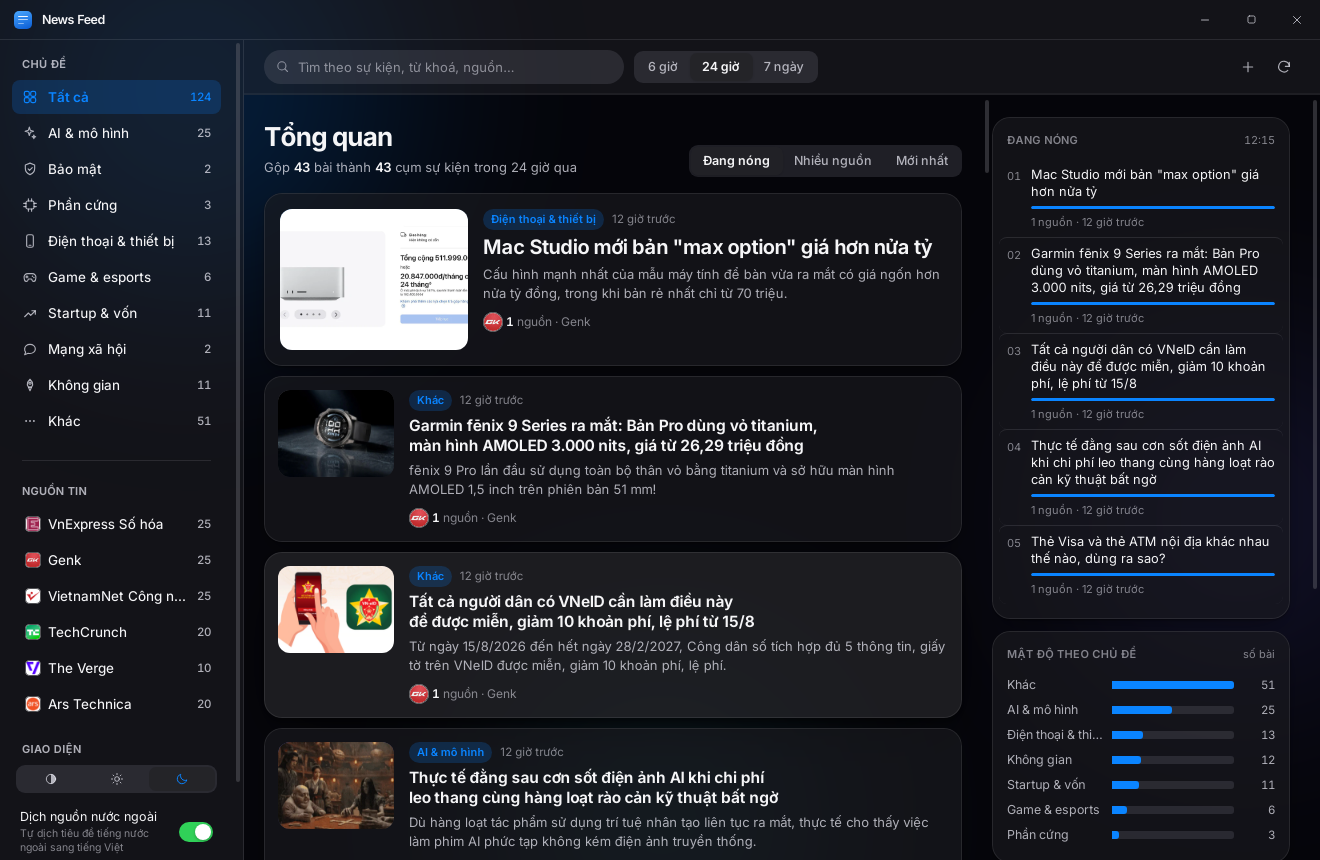
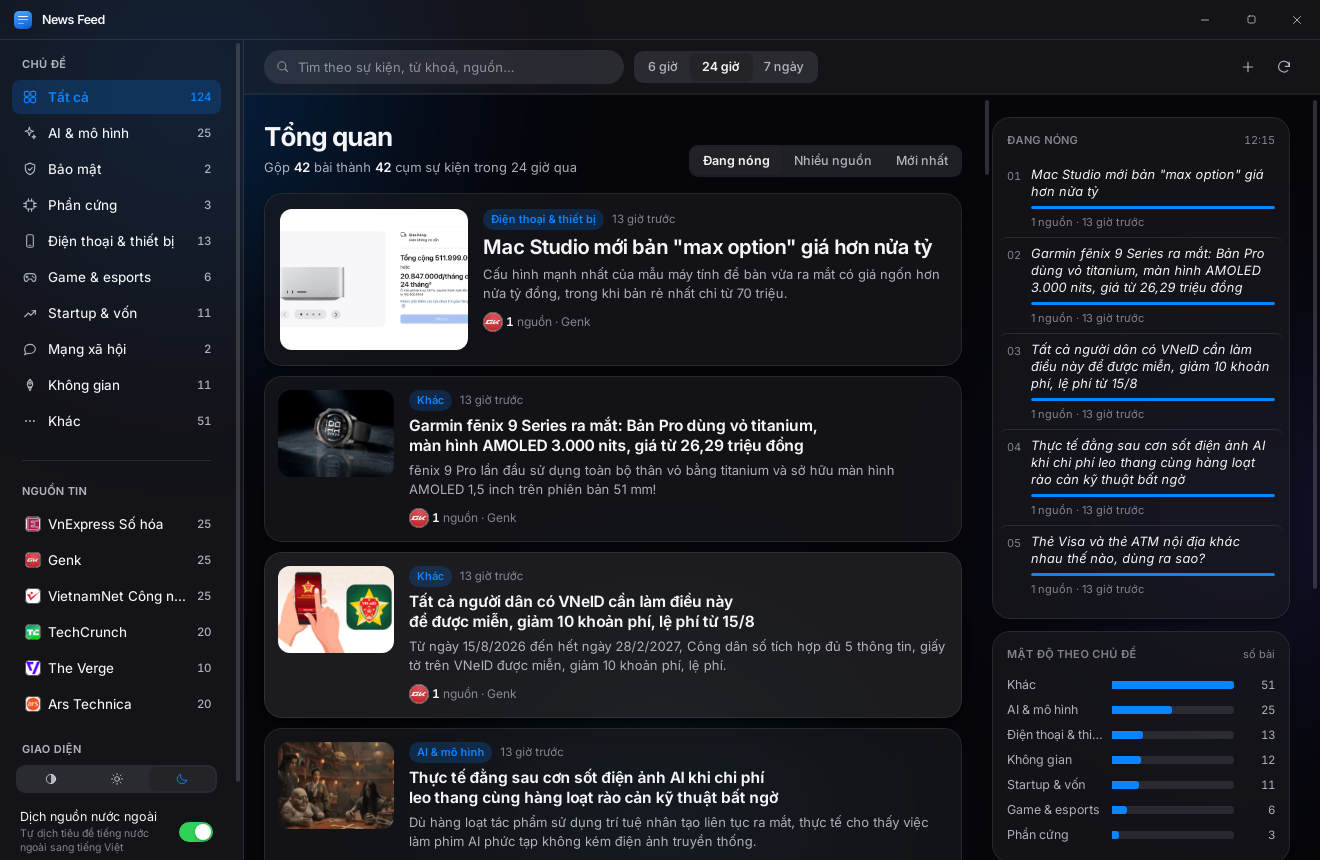
Chữ nghiêng cho panel Đang nóng và cuộn mượt có độ nảy (v0.4.0)
Panel Đang nóng dùng chữ nghiêng cho tiêu đề để khác hẳn phần còn lại. Nạp
kèm bộ nghiêng thật của Inter (có sẵn dấu tiếng Việt); không nạp thì trình
duyệt tự bóp nghiêng chữ đứng và dấu bị méo. Dòng đếm nguồn giữ chữ đứng
để trong panel vẫn có tương phản.

Cuộn mượt có độ nảy cho dòng tin và màn hình đọc. WebView trên Windows
không có hiệu ứng nảy như macOS nên phải tự dựng: chặn sự kiện lăn chuột,
nội suy dần vị trí cuộn qua từng khung hình, và khi lăn quá mép thì đẩy lớp
nội dung ra với lực cản tăng dần rồi cho bật về.

Một lỗi phải sửa trong lúc làm: bản đầu dùng một cờ bật tắt quanh lệnh gán
scrollTop để nhận ra cuộn nào do vòng lặp gây ra. Cách đó không chạy vì
trình duyệt bắn sự kiện scroll bất đồng bộ, cờ đã tắt trước khi trình xử lý
chạy, nên vòng lặp tự huỷ chuyển động của chính mình sau đúng một khung
hình — đo được là cuộn dừng ở 74px thay vì đi tiếp. Thay bằng cách so vị
trí thật với vị trí vòng lặp vừa đặt.

Thanh cuộn kéo tay và phím điều hướng vẫn theo cơ chế gốc; hiệu ứng tự tắt
khi hệ điều hành bật chế độ giảm chuyển động.

diff --git a/src/lib/elasticScroll.ts b/src/lib/elasticScroll.ts
@@ -1,0 +1,102 @@
+import { useEffect, type RefObject } from "react";
+
+/** Độ bám của chuyển động cuộn: càng nhỏ càng trôi lâu. */
+const EASE = 0.16;
+/** Kéo quá mép tối đa bao nhiêu pixel. */
+const OVERSCROLL_MAX = 92;
+/** Mỗi khung hình, độ kéo quá co lại bấy nhiêu lần. */
+const OVERSCROLL_DECAY = 0.85;
+
+/**
+ * Cuộn mượt có độ nảy ở hai mép.
+ *
+ * WebView trên Windows không có hiệu ứng nảy như macOS, nên phải tự làm:
+ * chặn sự kiện lăn chuột, nội suy dần vị trí cuộn qua từng khung hình, và
+ * khi người dùng lăn quá mép thì đẩy lớp nội dung ra rồi cho bật về.
+ *
+ * Thanh cuộn kéo tay và phím điều hướng vẫn chạy theo cơ chế gốc của trình
+ * duyệt; hàm này chỉ đồng bộ lại vị trí khi điều đó xảy ra.
+ */
+export function useElasticScroll(
+  outerRef: RefObject<HTMLElement | null>,
+  innerRef: RefObject<HTMLElement | null>,
+) {
+  useEffect(() => {
+    const outer = outerRef.current;
+    const inner = innerRef.current;
+    if (!outer || !inner) return;
+    if (window.matchMedia("(prefers-reduced-motion: reduce)").matches) return;
+
+    let target = outer.scrollTop;
+    let current = target;
+    let over = 0;
+    let frame = 0;
+
+    const maxScroll = () => Math.max(0, outer.scrollHeight - outer.clientHeight);
+
+    const tick = () => {
+      frame = 0;
+      // Nội dung có thể ngắn đi sau khi đổi bộ lọc.
+      target = Math.min(target, maxScroll());
+
+      const distance = target - current;
+      current = Math.abs(distance) < 0.4 ? target : current + distance * EASE;
+
+      outer.scrollTop = current;
+
+      over *= OVERSCROLL_DECAY;
+      if (Math.abs(over) < 0.3) over = 0;
+      inner.style.transform = over === 0 ? "" : `translate3d(0, ${over.toFixed(2)}px, 0)`;
+
+      if (current !== target || over !== 0) frame = requestAnimationFrame(tick);
+    };
+
+    const wake = () => {
+      if (!frame) frame = requestAnimationFrame(tick);
+    };
+
+    const onWheel = (event: WheelEvent) => {
+      // Ctrl + lăn là thao tác phóng to, không phải cuộn.
+      if (event.ctrlKey) return;
+      const max = maxScroll();
+      if (max <= 0) return;
+      event.preventDefault();
+
+      const next = target + event.deltaY;
+      // Càng kéo ra xa mép thì càng nặng tay, giống cách iOS ghì lại.
+      const resistance = 0.32 / (1 + Math.abs(over) / 70);
+
+      if (next < 0) {
+        over = Math.min(OVERSCROLL_MAX, over - next * resistance);
+        target = 0;
+      } else if (next > max) {
+        over = Math.max(-OVERSCROLL_MAX, over - (next - max) * resistance);
+        target = max;
+      } else {
+        target = next;
+      }
+      wake();
+    };
+
+    const onScroll = () => {
+      // Trình duyệt bắn sự kiện scroll bất đồng bộ, nên không thể dùng một cờ
+      // bật tắt quanh lệnh gán để nhận ra cuộn nào là của mình. Thay vào đó
+      // so vị trí thật với vị trí vòng lặp vừa đặt: lệch nhiều nghĩa là người
+      // dùng kéo thanh cuộn hoặc bấm phím, lúc đó mới đồng bộ lại.
+      const drifted = Math.abs(outer.scrollTop - current) > 2;
+      if (frame !== 0 && !drifted) return;
+      current = outer.scrollTop;
+      target = current;
+    };
+
+    outer.addEventListener("wheel", onWheel, { passive: false });
+    outer.addEventListener("scroll", onScroll, { passive: true });
+
+    return () => {
+      outer.removeEventListener("wheel", onWheel);
+      outer.removeEventListener("scroll", onScroll);
+      if (frame) cancelAnimationFrame(frame);
+      inner.style.transform = "";
+    };
+  }, [outerRef, innerRef]);
+}

diff --git a/src/App.tsx b/src/App.tsx
@@ -1,7 +1,8 @@
-import { useCallback, useEffect, useMemo, useState } from "react";
+import { useCallback, useEffect, useMemo, useRef, useState } from "react";
 import type { Cluster, Snapshot } from "./lib/types";
 import { api, isDesktop } from "./lib/api";
 import { useTheme } from "./lib/theme";
+import { useElasticScroll } from "./lib/elasticScroll";
 import { formatNumber, hoursSince } from "./lib/format";
 import { Segmented } from "./components/Segmented";
 import { Sidebar } from "./components/Sidebar";
@@ -29,6 +30,10 @@ const SORTS = [
 
 export default function App() {
   const { choice: theme, setChoice: setTheme } = useTheme();
+
+  const feedRef = useRef<HTMLElement>(null);
+  const feedInnerRef = useRef<HTMLDivElement>(null);
+  useElasticScroll(feedRef, feedInnerRef);
 
   const [snapshot, setSnapshot] = useState<Snapshot | null>(null);
   const [topic, setTopic] = useState("all");
@@ -263,7 +268,8 @@ export default function App() {
             </div>
 
             <div className="columns">
-              <main className="feed">
+              <main className="feed" ref={feedRef}>
+                <div className="feed-inner" ref={feedInnerRef}>
                 <div className="feed-head">
                   <div>
                     <h1>{sourceId ? (sourceMap.get(sourceId)?.title ?? "Tổng quan") : "Tổng quan"}</h1>
@@ -304,6 +310,7 @@ export default function App() {
                       />
                     ))
                   )}
+                </div>
                 </div>
               </main>
 

diff --git a/src/components/ReaderSheet.tsx b/src/components/ReaderSheet.tsx
@@ -1,7 +1,8 @@
-import { useEffect, useState } from "react";
+import { useEffect, useRef, useState } from "react";
 import type { CleanedArticle, Cluster } from "../lib/types";
 import { TOPIC_LABEL } from "../lib/types";
 import { api } from "../lib/api";
+import { useElasticScroll } from "../lib/elasticScroll";
 import { hostOf, relativeTime } from "../lib/format";
 import { SourceLogo } from "./SourceLogo";
 import { CloseIcon, ExternalIcon } from "./Icons";
@@ -22,6 +23,10 @@ export function ReaderSheet({ cluster, onClose }: Props) {
   const [translating, setTranslating] = useState(false);
   const [translateError, setTranslateError] = useState<string | null>(null);
   const [showOriginal, setShowOriginal] = useState(false);
+
+  const scrollRef = useRef<HTMLDivElement>(null);
+  const gridRef = useRef<HTMLDivElement>(null);
+  useElasticScroll(scrollRef, gridRef);
 
   const article = cluster.articles[selected] ?? cluster.articles[0];
 
@@ -119,8 +124,8 @@ export function ReaderSheet({ cluster, onClose }: Props) {
           </span>
         </div>
 
-        <div className="sheet-body">
-          <div className="reader-grid">
+        <div className="sheet-body" ref={scrollRef}>
+          <div className="reader-grid" ref={gridRef}>
             <article>
               <h1 className="reader-title">{displayTitle}</h1>
               <div className="reader-byline">

diff --git a/src/styles/app.css b/src/styles/app.css
@@ -465,7 +465,16 @@
 .hot-row:active { background: var(--fill-strong); }
 .hot-row:hover p { color: var(--blue); }
 .hot-row .rank { font-size: 11px; color: var(--label-3); padding-top: 2px; font-variant-numeric: tabular-nums; }
-.hot-row p { margin: 0 0 6px; font-size: 12.8px; line-height: 1.36; transition: color var(--dur-fast) ease; }
+/* Chữ nghiêng để panel này khác hẳn phần còn lại. Chỉ nghiêng tiêu đề, còn
+   dòng đếm nguồn giữ chữ đứng cho dễ đọc. */
+.hot-row p {
+  margin: 0 0 6px;
+  font-size: 12.8px;
+  line-height: 1.38;
+  font-style: italic;
+  letter-spacing: 0.002em;
+  transition: color var(--dur-fast) ease;
+}
 .hot-row .sub { font-size: 11px; color: var(--label-3); margin-top: 5px; display: block; }
 .meter { display: block; height: 3px; border-radius: 2px; background: var(--fill); overflow: hidden; }
 .meter i { display: block; height: 100%; border-radius: 2px; background: var(--blue); transition: width var(--dur-base) var(--ease-out); }

diff --git a/src/main.tsx b/src/main.tsx
@@ -1,6 +1,9 @@
 import React from "react";
 import ReactDOM from "react-dom/client";
 import "@fontsource-variable/inter/index.css";
+// Bộ nghiêng thật, có sẵn dấu tiếng Việt. Không nạp thì trình duyệt tự bóp
+// nghiêng chữ đứng và dấu bị méo.
+import "@fontsource-variable/inter/wght-italic.css";
 import "./styles/tokens.css";
 import "./styles/base.css";
 import "./styles/app.css";

diff --git a/README.md b/README.md
@@ -76,6 +76,14 @@ Game & esports, Startup & vốn, Xe điện, Mạng xã hội, Không gian**. Th
 lọc theo chủ đề hoặc theo từng nguồn, kèm khoảng thời gian 6 giờ / 24 giờ /
 7 ngày và ô tìm kiếm.
 
+### Cuộn mượt có độ nảy
+
+Cuộn dòng tin và cuộn bài đọc đều có chuyển động trôi dần thay vì nhảy từng
+nấc, và nảy lại khi chạm mép trên hoặc mép dưới. WebView trên Windows không
+có sẵn hiệu ứng này như macOS nên ứng dụng tự dựng. Thanh cuộn kéo tay và
+phím điều hướng vẫn chạy theo cơ chế gốc, và hiệu ứng tự tắt nếu hệ điều hành
+bật chế độ giảm chuyển động.
+
 ### Giao diện sáng và tối
 
 <img src="docs/screenshots/dashboard-dark.png" alt="Giao diện tối" width="880">
